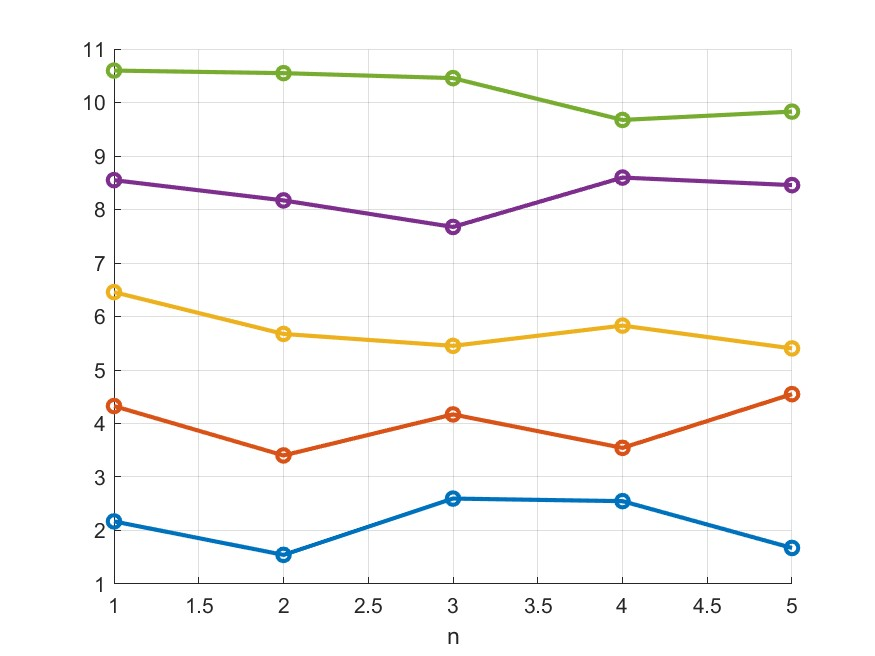
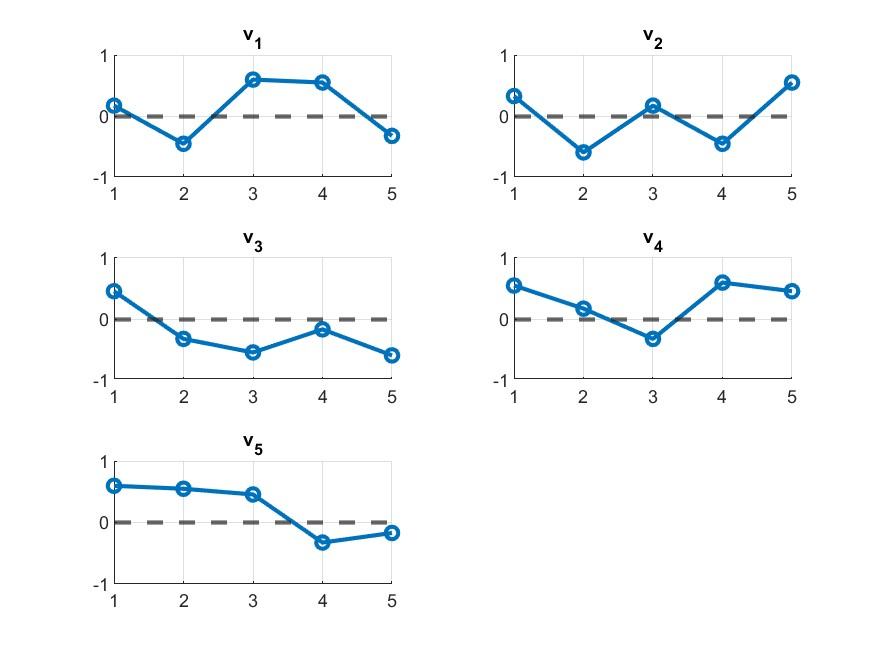
Improved Mode Shapes

diff --git a/main.m b/main.m
@@ -73,11 +73,16 @@ for j = 1:n
 end
 % Plot
 figure();
-hold('on');
-grid('on');
+tiledlayout(n, 1);
 xlabel('n');
 for j = 1:n
-    plot(1:n, P(j, :) + j * 2, '-o', 'LineWidth', 2);
+    nexttile();
+    hold('on');
+    grid('on');
+    title(sprintf("v_%.0f", j));
+    ylim([-1 1]);
+    plot(1:n, P(j, :), '-o', 'LineWidth', 2);
+    yline(0, '--', 'LineWidth', 2);
 end
 saveas(gcf, "Part A Mode Shapes", 'jpeg');
 % Elapsed Time
